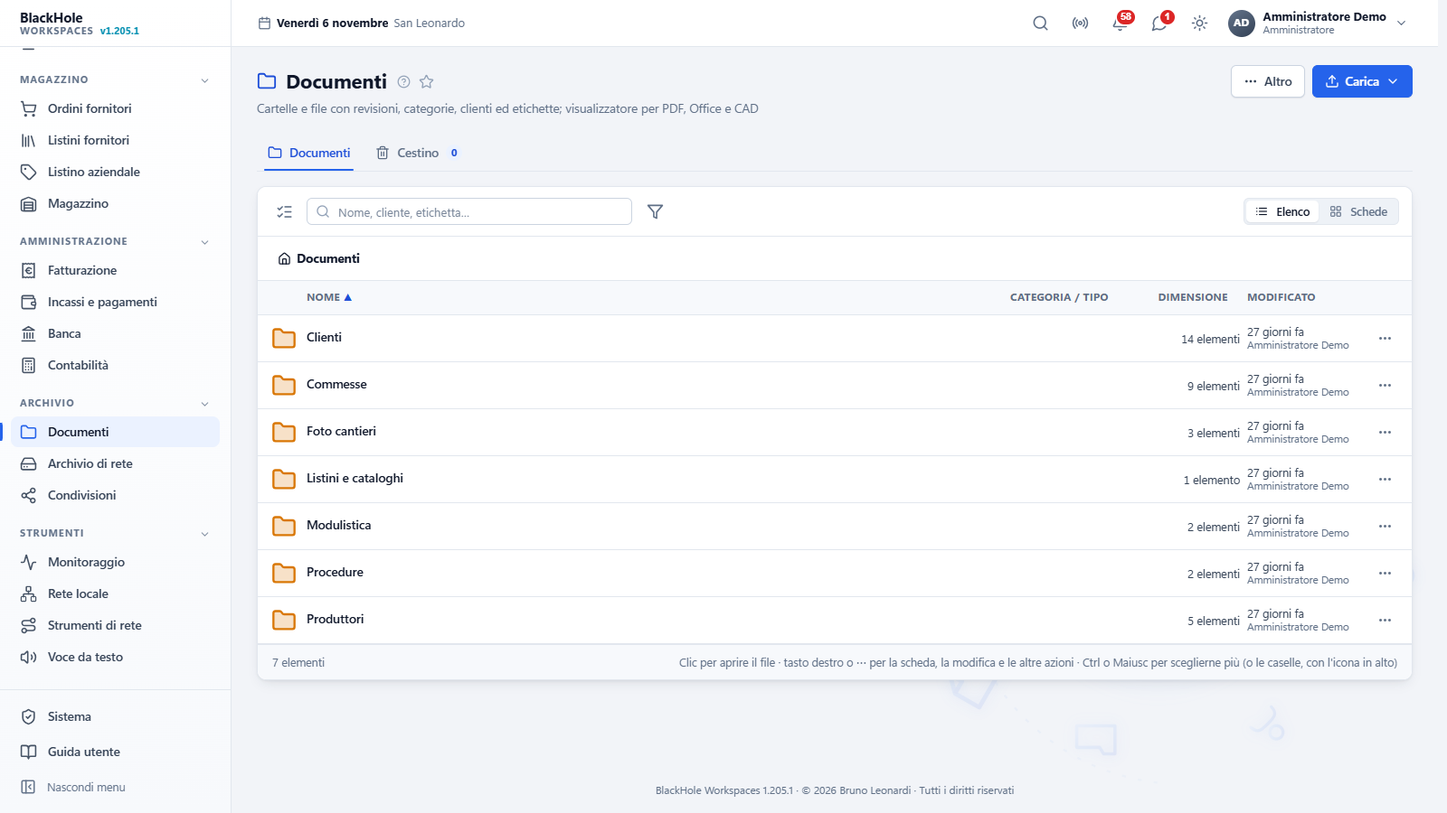
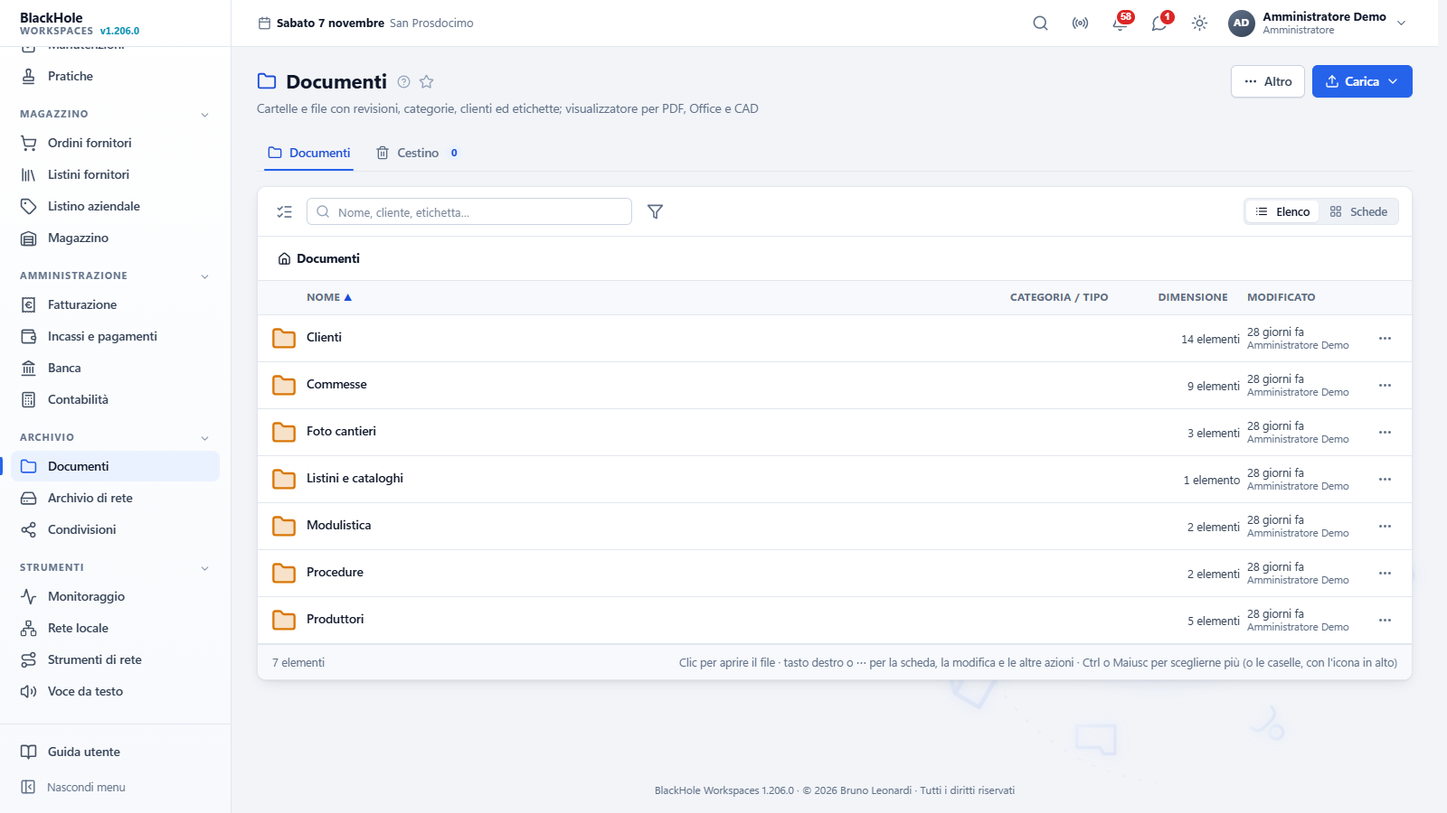
BlackHole Workspaces 1.206.0
- CHANGELOG: colori d'accento e sfondi a scelta, Sistema nel menu dell'utente, la freccia per tornare a Sistema, il menu
  dell'aspetto più ordinato.
- README: i colori e gli sfondi tra le funzioni e nella didascalia delle schermate.
- Guida utente rigenerata e schermate rifatte dalla demo 1.206.0.

diff --git a/docs/guida/interfaccia.md b/docs/guida/interfaccia.md
@@ -3,7 +3,7 @@
 # <a id="interfaccia"></a>L'interfaccia
 
 - **Menu laterale**: le pagine a cui hai accesso, divise per aree come in un gestionale: [Il mio spazio](area-di-lavoro.md) (Home, Attività, Appunti, Rubrica, Password), poi un'area per reparto: **Anagrafiche**, **Azienda**, **Progettazione**, **Magazzino**, **Amministrazione**, e **Archivio** e **Strumenti**; in fondo, il pulsante **Sistema** con il suo menu, la **Guida utente** e **Nascondi menu**. Vedi [Il menu laterale](#interfaccia-menu).
-- **Barra superiore**: a sinistra l'[area informativa](#interfaccia-area-informativa) (giorno, santo, festività, meteo, alba e tramonto); la pagina in cui ti trovi è evidenziata nel menu laterale e ne porta il titolo. A destra la lente 🔍 apre la [ricerca](ricerca.md) in tutta la piattaforma (anche con <kbd>Ctrl</kbd>+<kbd>K</kbd>; le altre [scorciatoie da tastiera](#interfaccia-scorciatoie) si vedono con <kbd>?</kbd>), il pulsante ✨ apre l'[assistente AI](assistente-ai.md) (c'è quando un amministratore l'ha attivato e lo puoi usare), il pulsante apre la [radio](#interfaccia-radio), la campanella 🔔 apre le [notifiche](notifiche.md) (il numero rosso indica quelle da leggere), il pulsante apre la [chat](chat.md) (il numero rosso indica i messaggi non letti), il pulsante accanto sceglie [tema e carattere](#interfaccia-aspetto), il tuo nome apre il menu del tuo account: i tuoi dati (nome utente, ultimo accesso, ultimo cambio della password, verifica in due passaggi), **Profilo e sicurezza** (la tua [scheda utente](profilo.md)), **Scorciatoie da tastiera** ed **Esci**. La guida è in fondo al menu laterale, sotto Sistema, e si apre anche con <kbd>F1</kbd>.
+- **Barra superiore**: a sinistra l'[area informativa](#interfaccia-area-informativa) (giorno, santo, festività, meteo, alba e tramonto); la pagina in cui ti trovi è evidenziata nel menu laterale e ne porta il titolo. A destra la lente 🔍 apre la [ricerca](ricerca.md) in tutta la piattaforma (anche con <kbd>Ctrl</kbd>+<kbd>K</kbd>; le altre [scorciatoie da tastiera](#interfaccia-scorciatoie) si vedono con <kbd>?</kbd>), il pulsante ✨ apre l'[assistente AI](assistente-ai.md) (c'è quando un amministratore l'ha attivato e lo puoi usare), il pulsante apre la [radio](#interfaccia-radio), la campanella 🔔 apre le [notifiche](notifiche.md) (il numero rosso indica quelle da leggere), il pulsante apre la [chat](chat.md) (il numero rosso indica i messaggi non letti), il pulsante accanto sceglie l'[aspetto](#interfaccia-aspetto) (tema, colore, sfondo e carattere), il tuo nome apre il menu del tuo account: i tuoi dati (nome utente, ultimo accesso, ultimo cambio della password, verifica in due passaggi), **Profilo e sicurezza** (la tua [scheda utente](profilo.md)), **Sistema** se sei amministratore (dalla 1.206.0: le pagine di gestione della piattaforma), **Scorciatoie da tastiera** ed **Esci**. La guida è in fondo al menu laterale e si apre anche con <kbd>F1</kbd>.
 - **Ogni pagina ha la stessa struttura**, cambia solo il titolo: in alto il titolo con il suo (?); sotto, una riga che dice a che cosa serve la pagina (passando sopra si legge tutta); a destra, in blu, il pulsante dell'azione principale, come **Nuovo cliente**: i «Nuovo…» hanno l'icona della pagina, quella del menu, con un piccolo **+** nell'angolo. Tutto il resto (**Stampa**, **Esporta**, **Importa**, le impostazioni e i tipi della pagina…) è nel menu **⋯ Altro** accanto, fatto come il menu di una riga: in testa il nome della pagina, poi le azioni, le stampe e i file e in fondo, in rosso, quelle che eliminano (dalla 1.124.3, in tutte le pagine). Dalla 1.159.0 il pulsante blu **segue la linguetta**: crea quello che la linguetta mostra (in Assistenza → Laboratorio **Ricevi un pezzo**, in Magazzino → Inventari **Nuovo inventario**, in Banca → Distinte **Nuova distinta**…), e **modelli, tipi e categorie** non sono linguette: si aprono da **Altro** in un elenco nel pannello a destra. Dalla 1.197.1 il pulsante blu in alto **c'è sempre**, anche a pagina vuota; quando la pagina o la linguetta è ancora vuota, al centro c'è **lo stesso pulsante**, con la stessa scritta e la stessa icona, e accanto al massimo un pulsante grigio per partire (**Importa da un file**, **Listini fornitori**…). Se prima serve altro, il blu è quella cosa: nel Magazzino senza magazzini è **Nuovo magazzino**, poi **Giacenza iniziale**; nelle Pratiche senza tipi è **Aggiungi i tipi proposti**. Con i primi dati il riquadro al centro sparisce e il pulsante resta in alto. Sotto, nelle pagine di vendite, fatture dei fornitori, magazzino e acquisti, il **riepilogo** con i numeri che contano (da incassare, scaduto, sotto scorta…): un clic su un numero mostra le righe che lo compongono. Poi le **linguette** con i numeri (il **Cestino** è sempre una linguetta; quando non ci stanno restano le icone e una sfumatura a destra dice che ce ne sono altre); i **filtri rapidi** (Tutti · Miei · Condivisi…); infine la barra con la **ricerca**, sempre per prima e della stessa misura, gli altri filtri e, a destra, quanti elementi sono in vista.
 - **Ogni pannello ha la stessa fascia in basso** (dalla 1.133.0, le schede e gli elenchi che si aprono a destra): all'estremo destro il pulsante blu (**Salva**, **Crea**, **Modifica**, **Nuovo…**) e prima di lui **Annulla**, o **Chiudi** quando non c'è niente da salvare; accanto restano a vista solo i passaggi di lavoro, come **Salva** vicino a **Emetti**. A sinistra l'interruttore dello stato (**Attivo**…) e **⋯ Altro** con tutto il resto, come nell'intestazione della pagina: in testa il nome della scheda, poi le azioni (**Duplica**, **Proposti**…), le stampe e i file (**Stampa**, **Importa**, **Esporta**) e in fondo, in rosso, **Elimina** o **Sposta nel cestino**. Tutto sta su una riga, anche sul telefono; solo quando non ci sta, lo stato e **Altro** vanno sopra e Annulla e il blu sotto, a destra.
 - **Intestazione sempre in vista**: scorrendo verso il basso, il titolo della pagina con i suoi pulsanti e le linguette restano fermi sotto la barra in alto; negli elenchi resta ferma, sotto di loro, anche la riga con i **titoli delle colonne**, così sai sempre che cosa stai leggendo e puoi ordinare senza tornare in cima. Una leggera ombra segnala che sotto scorre il contenuto. Sui telefoni resta ferma solo la riga dei titoli delle colonne, per lasciare spazio al contenuto.
@@ -33,7 +33,7 @@ Le funzioni più ricche (clienti, commesse, impianti, certificazioni, manutenzio
 
 - **Il mio spazio**, in cima e sempre aperta: **Home**, **Attività**, **Appunti** e **Password**, il lavoro di ogni giorno di ciascuno (vedi [Il mio spazio e le aree](area-di-lavoro.md)). Sotto, le aree dell'azienda, una per reparto (dalla 1.160.0): **Anagrafiche** (Clienti, Fornitori, Produttori), **Azienda** (la reception con Assistenza e Reperibilità, le squadre con Presenze, Mezzi e Attrezzature, e Personale, Indicatori, Scadenze), **Progettazione** (Progetti, Preventivi, Commesse, Impianti, Certificazioni, Manutenzioni, Pratiche), **Magazzino** (Ordini fornitori, Listini fornitori, Listino aziendale, Magazzino), **Amministrazione** (Fatturazione con le fatture emesse e ricevute, Incassi e pagamenti, Banca, Contabilità), **Archivio** e **Strumenti**. Ognuno vede solo le pagine che può usare, e un'area senza pagine per te non compare.
 - **Aree che si aprono e si chiudono**: tutte tranne Il mio spazio hanno una freccia accanto al titolo: un clic sul titolo ne nasconde o ne mostra le voci. La scelta resta **ricordata nel browser** che stai usando, anche dopo aver chiuso la piattaforma. Quando arrivi su una pagina di un'area chiusa (da una tessera della Home, da un collegamento, da un avviso) l'area si apre da sola, senza cambiare la scelta ricordata. La voce della pagina in cui ti trovi è evidenziata, con una barretta colorata sul bordo sinistro, e resta sempre in vista: se il menu è più lungo della finestra scorre da solo fino a lei, e una sfumatura in fondo dice che sotto ci sono altre voci. Arrivato in fondo il menu si ferma: la pagina accanto non scorre insieme a lui, e lo stesso vale per pannelli, finestre, menu ed elenchi a comparsa.
-- **Sistema** : la voce in fondo alla barra, sopra la **Guida utente**. Apre la [pagina Sistema](sistema.md), con un **riquadro** per ogni pagina di gestione della piattaforma che puoi usare (**Utenti**, **Gruppi**, **Policy**, **Registro attività**, **Backup**, **Impostazioni**…). Mentre sei in una di queste pagine resta evidenziata la voce Sistema. Chi non può aprirne nessuna non la vede. In questa guida un percorso come **Sistema → Utenti** indica la pagina Sistema e poi il riquadro.
+- **Sistema** : dalla 1.206.0 sta nel **menu del tuo account**, il tuo nome in alto a destra, e lo vedono gli **amministratori**. Apre la [pagina Sistema](sistema.md), con un **riquadro** per ogni pagina di gestione della piattaforma (**Utenti**, **Gruppi**, **Policy**, **Registro attività**, **Backup**, **Impostazioni**…). In ognuna di queste pagine, davanti al titolo, la freccia riporta a Sistema senza riaprire il menu. Chi non è amministratore trova nello stesso menu, una per voce, le sole pagine di gestione che può aprire: di solito il **Cestino**, e il **Registro attività** o gli **Utenti** se ha quel permesso. Quando c'è una versione nuova da installare, un pallino sul tuo nome e accanto a Sistema lo ricorda. In questa guida un percorso come **Sistema → Utenti** indica la pagina Sistema e poi il riquadro.
 - **Nascondi menu** , in fondo, riduce il menu alle sole icone; lo stesso pulsante, che diventa **Mostra menu**, lo riporta intero. Nel menu ridotto i titoli delle sezioni spariscono (resta la freccia che apre e chiude ogni area) e, fermando il mouse su un'icona, compare il nome della pagina. La scelta è ricordata nel browser, una per le finestre larghe, dove il menu parte intero, e una per quelle strette, dove parte ridotto.
 - **Telefoni e schermi piccoli**: il menu resta nascosto e si apre con il pulsante ☰ in alto a sinistra, sempre con i nomi delle pagine e con **Sistema** come sul computer. Scelta una pagina si richiude.
 
@@ -63,14 +63,17 @@ Mentre la radio suona, il pulsante diventa delle **barrette animate**: puoi chiu
 
 La musica arriva al browser **direttamente dalla radio**: il server chiede al catalogo solo l'indirizzo aggiornato della stazione (segnalandone l'ascolto, come il catalogo chiede di fare) e non riceve né registra ciò che ascolti. Alcune radio (Radio Deejay, RTL 102.5, Radio Italia…) trasmettono a segmenti (formato HLS): il browser le suona da solo oppure con una piccola libreria inclusa nel programma, caricata solo quando serve. Con la piattaforma aperta in https, le poche radio che trasmettono solo in http possono essere bloccate dal browser: un avviso lo segnala. Se una radio non risponde, il pannello lo dice: riprova poco dopo o scegline un'altra. YouTube non è incluso.
 
-## <a id="interfaccia-aspetto"></a>Tema, carattere e sfondo
+## <a id="interfaccia-aspetto"></a>Tema, colore, sfondo e carattere
 
-Il pulsante accanto a quello della chat, nella barra superiore, apre un menu con due gruppi di scelte:
+Il pulsante **Aspetto**, accanto a quello della chat nella barra superiore, apre un menu con queste scelte:
 
-- **Aspetto**: **Tema chiaro**, **Tema scuro** oppure **Segui il sistema**, che prende il tema impostato nel sistema operativo. Con il tema chiaro anche il menu laterale è chiaro; con quello scuro è scuro.
-- **Carattere**: il carattere con cui è scritta tutta la piattaforma. **Predefinito (sistema)** è quello del sistema operativo; gli altri sei sono inclusi nel programma e descritti in [Aspetto: tema e carattere](profilo.md#profilo-aspetto).
+- **Tema**: **Tema chiaro**, **Tema scuro** oppure **Segui il sistema**, che prende il tema impostato nel sistema operativo. Con il tema chiaro anche il menu laterale è chiaro; con quello scuro è scuro.
+- **Colore** (dalla 1.206.0): il colore d'accento, cioè quello dei pulsanti principali, della voce aperta nel menu, dei campi in cui scrivi e delle righe scelte. **Blu** è quello di serie; gli altri sono **Indaco**, **Viola**, **Verde acqua** e **Grafite**, quasi senza colore. Rosso, verde e ambra non ci sono: restano i colori degli errori, delle cose fatte e degli avvisi. I colori che hai dato a categorie, cartelle, appunti e progetti non cambiano (il loro «Blu» resta blu). In questa guida il «pulsante blu» è il pulsante principale della pagina: con un altro colore d'accento ha quel colore.
+- **Sfondo** (dalla 1.206.0): la tinta di fondi, riquadri e testi, nel tema chiaro e in quello scuro. **Fresco**, di serie, è il grigio azzurro di sempre; **Neutro** un grigio senza tinta; **Caldo** è color carta, più morbido per gli occhi dopo tante ore allo schermo.
+- **Densità**: **Comoda** o **Compatta**, come in [Aspetto](profilo.md#profilo-aspetto).
+- **Carattere…**: apre l'elenco dei caratteri con cui può essere scritta tutta la piattaforma. **Predefinito (sistema)** è quello del sistema operativo; gli altri sei sono inclusi nel programma e descritti in [Aspetto: tema, colore e carattere](profilo.md#profilo-aspetto).
 
-La voce attiva ha la spunta e il cambio è immediato. Le stesse scelte, con un'anteprima, sono in [Profilo e sicurezza](profilo.md), scheda **Aspetto**. Tema e carattere **valgono per il browser in uso**, non per l'account: su un altro computer vanno scelti di nuovo. Valgono anche per la pagina di accesso.
+La voce attiva ha la spunta e il cambio è immediato. Le stesse scelte, con un'anteprima, sono in [Profilo e sicurezza](profilo.md), scheda **Aspetto**. Tema, colori e carattere **valgono per il browser in uso**, non per l'account: su un altro computer vanno scelti di nuovo. Valgono anche per la pagina di accesso. Sul telefono il pulsante non è nella barra: la voce **Aspetto** è nel menu del tuo account.
 
 Dietro il contenuto di ogni pagina, in basso a destra, si intravede il **vortice** della pagina di accesso, molto tenue, che ruota lentissimo: è solo una decorazione, in entrambi i temi. Non compare nella stampa né sugli schermi piccoli, e resta fermo se nel sistema operativo hai chiesto di ridurre le animazioni.
 

diff --git a/docs/guida/profilo.md b/docs/guida/profilo.md
@@ -11,14 +11,14 @@ Il menu con il tuo nome, in alto a destra, riassume il tuo account (nome utente,
    - **Verifica in due passaggi → Attiva**: mostra un codice QR da inquadrare con l'app di autenticazione e poi i **codici di recupero**, da conservare in un posto sicuro. **Disattiva** chiede la password e un codice; se per il tuo account è obbligatoria non c'è.
    - **Browser di fiducia**: quelli su cui il codice non viene chiesto, da revocare uno per uno o tutti.
    - **Permessi effettivi**: che cosa puoi fare, secondo le [policy](gruppi-policy.md) dei tuoi gruppi.
-- **Aspetto**: il tema e il carattere della piattaforma su questo browser: vedi [Aspetto: tema e carattere](#profilo-aspetto).
+- **Aspetto**: il tema, il colore, lo sfondo e il carattere della piattaforma su questo browser: vedi [Aspetto: tema, colore e carattere](#profilo-aspetto).
 - **Notifiche**: quali [notifiche di attività e commesse](notifiche.md) ricevere e se averle anche per email o su Telegram (**Collega Telegram**); vedi [Preferenze](notifiche.md#notifiche-preferenze) e [Su Telegram](notifiche.md#notifiche-telegram). L'icona ⚙ della campanella apre la scheda direttamente qui.
 
 In Sicurezza, Aspetto e Notifiche ogni comando vale subito (o ha il suo **Salva**), per questo in fondo non c'è il pulsante Salva della scheda.
 
-## <a id="profilo-aspetto"></a>Aspetto: tema, densità, ombre e carattere
+## <a id="profilo-aspetto"></a>Aspetto: tema, colore, sfondo, densità, ombre e carattere
 
-Nella scheda **Aspetto** scegli il **tema**, **Chiaro**, **Scuro** o **Automatico** (segue il sistema operativo), la **Densità** (**Comoda**, com'è sempre stata, oppure **Compatta**: righe degli elenchi, campi e pulsanti più bassi e margini più stretti, per vedere più cose insieme sullo schermo del computer; sul telefono resta comoda), le **Ombre** (dalla 1.101.0: quanto si staccano dallo sfondo riquadri, numeri, pannelli, finestre e menu; di serie **Morbide**, a più strati come le ombre vere; **Leggere** sono quelle di prima, **Profonde** più presenti, con i bordi più leggeri e i riquadri cliccabili che si alzano al passaggio del mouse; lo sfondo resta com'è; le ombre valgono nel tema chiaro: dalla 1.109.1 nel tema scuro riquadri, numeri e pulsanti non hanno ombre (le staccano il bordo e la superficie), solo menu e finestre ne hanno una scura e raccolta; le Sospese non ci sono più (chi le aveva torna alle Morbide); dalla 1.105.0 le Morbide stanno sotto l'oggetto e non intorno, così gli spazi tra i riquadri restano puliti, e menu, avvisi e finestrelle hanno un'ombra più raccolta di quella delle finestre) e sotto il **Carattere** con cui è scritta tutta la piattaforma. Dalla 1.101.0 i numeri dei riquadri (Home e strisce in cima alle pagine) salgono da zero al valore, accelerando e poi rallentando; se cambiano mentre la pagina è aperta vanno dal vecchio al nuovo. Ogni pulsante è scritto con il proprio carattere e porta una frase di esempio con lettere accentate e cifre: un clic e la pagina cambia subito, senza salvare.
+Nella scheda **Aspetto** scegli il **tema**, **Chiaro**, **Scuro** o **Automatico** (segue il sistema operativo), il **Colore** d'accento (dalla 1.206.0: un pallino per colore, Blu di serie, Indaco, Viola, Verde acqua e Grafite; vedi [Tema, colore, sfondo e carattere](interfaccia.md#interfaccia-aspetto)), lo **Sfondo** (**Fresco** di serie, **Neutro** o **Caldo**, color carta), la **Densità** (**Comoda**, com'è sempre stata, oppure **Compatta**: righe degli elenchi, campi e pulsanti più bassi e margini più stretti, per vedere più cose insieme sullo schermo del computer; sul telefono resta comoda), le **Ombre** (dalla 1.101.0: quanto si staccano dallo sfondo riquadri, numeri, pannelli, finestre e menu; di serie **Morbide**, a più strati come le ombre vere; **Leggere** sono quelle di prima, **Profonde** più presenti, con i bordi più leggeri e i riquadri cliccabili che si alzano al passaggio del mouse; lo sfondo resta com'è; le ombre valgono nel tema chiaro: dalla 1.109.1 nel tema scuro riquadri, numeri e pulsanti non hanno ombre (le staccano il bordo e la superficie), solo menu e finestre ne hanno una scura e raccolta; le Sospese non ci sono più (chi le aveva torna alle Morbide); dalla 1.105.0 le Morbide stanno sotto l'oggetto e non intorno, così gli spazi tra i riquadri restano puliti, e menu, avvisi e finestrelle hanno un'ombra più raccolta di quella delle finestre) e sotto il **Carattere** con cui è scritta tutta la piattaforma. Dalla 1.101.0 i numeri dei riquadri (Home e strisce in cima alle pagine) salgono da zero al valore, accelerando e poi rallentando; se cambiano mentre la pagina è aperta vanno dal vecchio al nuovo. Ogni pulsante è scritto con il proprio carattere e porta una frase di esempio con lettere accentate e cifre: un clic e la pagina cambia subito, senza salvare.
 
 | Carattere | Com'è |
 | --- | --- |

diff --git a/docs/guida/README.md b/docs/guida/README.md
@@ -3,7 +3,7 @@
 [← Torna alla presentazione](../../README.md) · [Scarica il setup](https://github.com/brn78/BlackHole-Workspaces/releases/latest)
 
 > [!NOTE]
-> È la stessa guida che si apre nella piattaforma con <kbd>F1</kbd> (menu **Guida utente**), aggiornata alla versione **1.205.1**. Nella piattaforma le icone **(?)** accanto ai campi portano direttamente al paragrafo giusto.
+> È la stessa guida che si apre nella piattaforma con <kbd>F1</kbd> (menu **Guida utente**), aggiornata alla versione **1.206.0**. Nella piattaforma le icone **(?)** accanto ai campi portano direttamente al paragrafo giusto.
 
 BlackHole Workspaces è la piattaforma web per i servizi dell'azienda: un unico posto, protetto da accesso personale, in cui gestire attività, appunti, password, clienti, commesse, documenti, persone e, via via, gli altri servizi. Questa guida descrive ogni funzione così come la vedi a schermo e viene aggiornata a ogni nuova versione.
 
@@ -25,7 +25,7 @@ BlackHole Workspaces è la piattaforma web per i servizi dell'azienda: un unico 
    - [Il menu laterale](interfaccia.md#interfaccia-menu)
    - [L'area informativa](interfaccia.md#interfaccia-area-informativa)
    - [La radio](interfaccia.md#interfaccia-radio)
-   - [Tema, carattere e sfondo](interfaccia.md#interfaccia-aspetto)
+   - [Tema, colore, sfondo e carattere](interfaccia.md#interfaccia-aspetto)
    - [Modifiche non salvate](interfaccia.md#interfaccia-non-salvate)
    - [Scorciatoie da tastiera](interfaccia.md#interfaccia-scorciatoie)
    - [Icone di aiuto](interfaccia.md#interfaccia-aiuto)
@@ -515,7 +515,7 @@ BlackHole Workspaces è la piattaforma web per i servizi dell'azienda: un unico 
    - [Accesso remoto](impostazioni.md#impostazioni-remoto)
    - [Modelli tra server (esporta e importa)](impostazioni.md#impostazioni-modelli)
 60. [Profilo e sicurezza](profilo.md)
-   - [Aspetto: tema, densità, ombre e carattere](profilo.md#profilo-aspetto)
+   - [Aspetto: tema, colore, sfondo, densità, ombre e carattere](profilo.md#profilo-aspetto)
    - [Nel calendario del telefono](profilo.md#profilo-calendario)
 61. [Server e installazione](server.md)
    - [Installazione](server.md#server-installazione)

diff --git a/docs/guida/problemi.md b/docs/guida/problemi.md
@@ -229,14 +229,14 @@ Gli amministratori non fanno parte dei gruppi: hanno già tutti i permessi e le 
 <details>
 <summary><b>Nel menu non trovo una pagina</b></summary>
 
-Le pagine di gestione della piattaforma (utenti, gruppi, policy, registro, archiviazione, backup, impostazioni) sono nel menu del pulsante **Sistema** , in fondo al menu laterale: un clic lo apre (con il menu ridotto alle icone, un clic sullo scudo). Se di un'area (Anagrafiche, Progettazione, Archivio…) vedi solo il titolo (o, nel menu ridotto, solo la freccia), è chiusa: un clic la riapre. Una pagina che non puoi usare non compare: chiedi a un amministratore. Vedi [Il menu laterale](interfaccia.md#interfaccia-menu).
+Le pagine di gestione della piattaforma (utenti, gruppi, policy, registro, archiviazione, backup, impostazioni) sono nella pagina **Sistema** , che gli amministratori aprono dal menu del loro account (il nome in alto a destra); chi non è amministratore trova lì il Cestino e le altre pagine di gestione che può aprire. Se di un'area (Anagrafiche, Progettazione, Archivio…) vedi solo il titolo (o, nel menu ridotto, solo la freccia), è chiusa: un clic la riapre. Una pagina che non puoi usare non compare: chiedi a un amministratore. Vedi [Il menu laterale](interfaccia.md#interfaccia-menu).
 
 </details>
 
 <details>
-<summary><b>Il tema o il carattere che ho scelto non ci sono su un altro computer</b></summary>
+<summary><b>Il tema, il colore o il carattere che ho scelto non ci sono su un altro computer</b></summary>
 
-Sono preferenze del browser, non dell'account: vanno scelte su ogni computer e in ogni browser che usi. Vedi [Aspetto: tema e carattere](profilo.md#profilo-aspetto).
+Sono preferenze del browser, non dell'account: vanno scelte su ogni computer e in ogni browser che usi. Vedi [Aspetto: tema, colore e carattere](profilo.md#profilo-aspetto).
 
 </details>
 

diff --git a/CHANGELOG.md b/CHANGELOG.md
@@ -4,6 +4,22 @@ Il setup di ogni versione è nella pagina [Releases](https://github.com/brn78/Bl
 Per aggiornare basta **Scarica e installa** in *Sistema → Impostazioni → Aggiornamento del programma* (dalla 1.136.0),
 oppure caricare il setup nello stesso riquadro o eseguirlo sul server: dati, account e impostazioni restano.
 
+## 1.206.0 · 7 novembre 2026
+
+**Novità**
+
+- **Colori e sfondi a scelta**: oltre al tema chiaro, scuro o automatico si sceglie il colore d'accento (Blu, Indaco,
+  Viola, Verde acqua o Grafite) e lo sfondo (Fresco, Neutro o Caldo, color carta, riposante dopo tante ore allo schermo).
+  Si cambiano con un clic da *Profilo → Aspetto* o dal menu in alto, con il tema chiaro e con quello scuro, e valgono per
+  il browser che stai usando. Rosso, verde e ambra restano quelli di errori, cose fatte e avvisi, e i colori scelti per
+  categorie, cartelle e progetti non cambiano.
+- **Sistema nel menu dell'utente**: si apre dal menu in alto a destra, non più dal fondo del menu laterale. Gli
+  amministratori trovano la voce *Sistema*, con il pallino e il numero quando c'è una versione da installare; gli altri
+  utenti vedono soltanto le pagine di gestione che possono aprire.
+- **Freccia per tornare a Sistema**: nelle pagine di gestione (Utenti, Backup, Impostazioni…) la freccia davanti al titolo
+  riporta a Sistema, senza riaprire il menu dell'utente.
+- **Menu dell'aspetto più ordinato**: in alto ci sono Tema, Colore, Sfondo e Densità; i caratteri hanno un menu loro.
+
 ## 1.205.1 · 6 novembre 2026
 
 Le versioni dalla 1.203.0 alla 1.205.1 escono insieme, in un solo setup.

diff --git a/docs/guida/glossario.md b/docs/guida/glossario.md
@@ -4,7 +4,7 @@
 
 - **Appunto**: Nota di testo o elenco di voci da spuntare, personale oppure condiviso con colleghi e gruppi: lo vedono solo il proprietario e i destinatari.
 - **Archivio (appunti)**: La vista in cui ciascuno mette da parte gli appunti che non gli servono sott'occhio: vale solo per chi archivia.
-- **Aree del menu**: Le sezioni del menu laterale, una per reparto: Il mio spazio, Anagrafiche, Azienda, Progettazione, Magazzino, Amministrazione, Archivio e Strumenti; le pagine di gestione della piattaforma sono nel menu del pulsante Sistema. Vedi [Il mio spazio e le aree](area-di-lavoro.md).
+- **Aree del menu**: Le sezioni del menu laterale, una per reparto: Il mio spazio, Anagrafiche, Azienda, Progettazione, Magazzino, Amministrazione, Archivio e Strumenti; le pagine di gestione della piattaforma sono nella pagina Sistema, nel menu dell'account degli amministratori. Vedi [Il mio spazio e le aree](area-di-lavoro.md).
 - **Assistente AI**: La chat della barra in alto che risponde con un modello linguistico sul server: domande, attività, rapportini, riassunti, supporto tecnico. Vedi [Assistente AI](assistente-ai.md).
 - **Attività condivisa**: Un'attività che chi può modificarla fa vedere a colleghi e gruppi, in sola lettura o con la modifica: chi la riceve ci lavora comunque (stato, voci, commenti, file, ore).
 - **Avviso**: Messaggio in basso a destra che segnala qualcosa arrivato da altri: un messaggio della chat, un appunto condiviso con te, una notifica di attività e commesse.

diff --git a/README.md b/README.md
@@ -101,7 +101,8 @@ annunci e video, chat interna e notifiche anche su **Telegram**.
 **⚙ Pensato per il server**<br>
 Servizio di Windows con icona di stato, backup automatici cifrati, aggiornamento dalla piattaforma con l'avviso delle
 nuove versioni e l'avviso a chi è collegato, **sezioni del menu** da spegnere se l'azienda non le usa, verifica in due
-passaggi, registro attività, tema chiaro e scuro, app installabile sul telefono, veloce anche con dieci anni di dati.
+passaggi, registro attività, tema chiaro e scuro con colori e sfondi a scelta, app installabile sul telefono, veloce
+anche con dieci anni di dati.
 
 </td>
 </tr>
@@ -139,7 +140,7 @@ passaggi, registro attività, tema chiaro e scuro, app installabile sul telefono
 <td align="center"><img src="docs/immagini/sistema.png" alt="Pagina Sistema"><br><b>Sistema</b>: utenti, permessi, backup e impostazioni</td>
 </tr>
 <tr>
-<td align="center"><img src="docs/immagini/home-chiaro.png" alt="Home con il tema chiaro"><br><b>Tema chiaro o scuro</b>, anche automatico</td>
+<td align="center"><img src="docs/immagini/home-chiaro.png" alt="Home con il tema chiaro"><br><b>Tema chiaro o scuro</b>, con colori e sfondi a scelta</td>
 <td align="center"><img src="docs/immagini/accesso.png" alt="Pagina di accesso"><br><b>Accesso protetto</b>, con verifica in due passaggi</td>
 </tr>
 <tr>

diff --git a/docs/guida/sistema.md b/docs/guida/sistema.md
@@ -2,7 +2,7 @@
 
 # <a id="sistema"></a>Sistema
 
-La voce **Sistema** , [in fondo al menu](interfaccia.md#interfaccia-menu), apre la pagina con tutta la gestione della piattaforma (dalla 1.135.0; prima era un menu a comparsa). Ogni pagina è un **riquadro** con l'icona, il nome, che cosa fa e le sue **funzioni**; un clic sul riquadro apre la pagina, un clic su una funzione sottolineata in blu apre direttamente quella linguetta (per esempio **Telegram e presenze** delle Impostazioni o le **Richieste** della Privacy). I riquadri sono raccolti in aree:
+La voce **Sistema** , nel [menu del tuo account](interfaccia.md#interfaccia-menu) (il tuo nome in alto a destra; dalla 1.206.0, prima in fondo al menu laterale), apre la pagina con tutta la gestione della piattaforma (dalla 1.135.0; prima era un menu a comparsa). La vedono gli amministratori; nelle pagine che apre, la freccia davanti al titolo riporta qui. Ogni pagina è un **riquadro** con l'icona, il nome, che cosa fa e le sue **funzioni**; un clic sul riquadro apre la pagina, un clic su una funzione sottolineata in blu apre direttamente quella linguetta (per esempio **Telegram e presenze** delle Impostazioni o le **Richieste** della Privacy). I riquadri sono raccolti in aree:
 
 | Area | Pagine |
 | --- | --- |

diff --git a/docs/guida/area-di-lavoro.md b/docs/guida/area-di-lavoro.md
@@ -22,7 +22,7 @@ Sotto, le **aree dell'azienda**, una per **reparto** come lavora l'azienda (dall
 - **Archivio**: i [Documenti](documenti.md), le [Condivisioni](condivisioni.md), i link per far vedere file, cartelle e la documentazione degli impianti a chi non ha un account, e l'[Archivio di rete](archivio-rete.md#archivio-rete-sfogliare), le cartelle dell'ufficio in sola lettura;
 - **Strumenti**: [Monitoraggio](monitoraggio.md), [Rete locale](rete-locale.md), [Strumenti di rete](strumenti-rete.md) e [Voce da testo](voce-da-testo.md).
 
-Le pagine di gestione della piattaforma (utenti, policy, backup, impostazioni) sono nella pagina **Sistema**, che si apre dalla voce in fondo alla barra.
+Le pagine di gestione della piattaforma (utenti, policy, backup, impostazioni) sono nella pagina **Sistema**, che gli amministratori aprono dal menu del loro account, il nome in alto a destra.
 
 > [!TIP]
 > **Attività o elenco negli appunti?** Un [elenco](appunti.md#appunti-elenchi) negli appunti basta per le cose da ricordare, tue o di pochi colleghi: si spunta e basta. Un'**attività** serve quando contano chi la fa ed entro quando: ha persone assegnate, scadenza, stato, promemoria e notifiche, revisione, file e ore, e si collega a un cliente o a una commessa.
